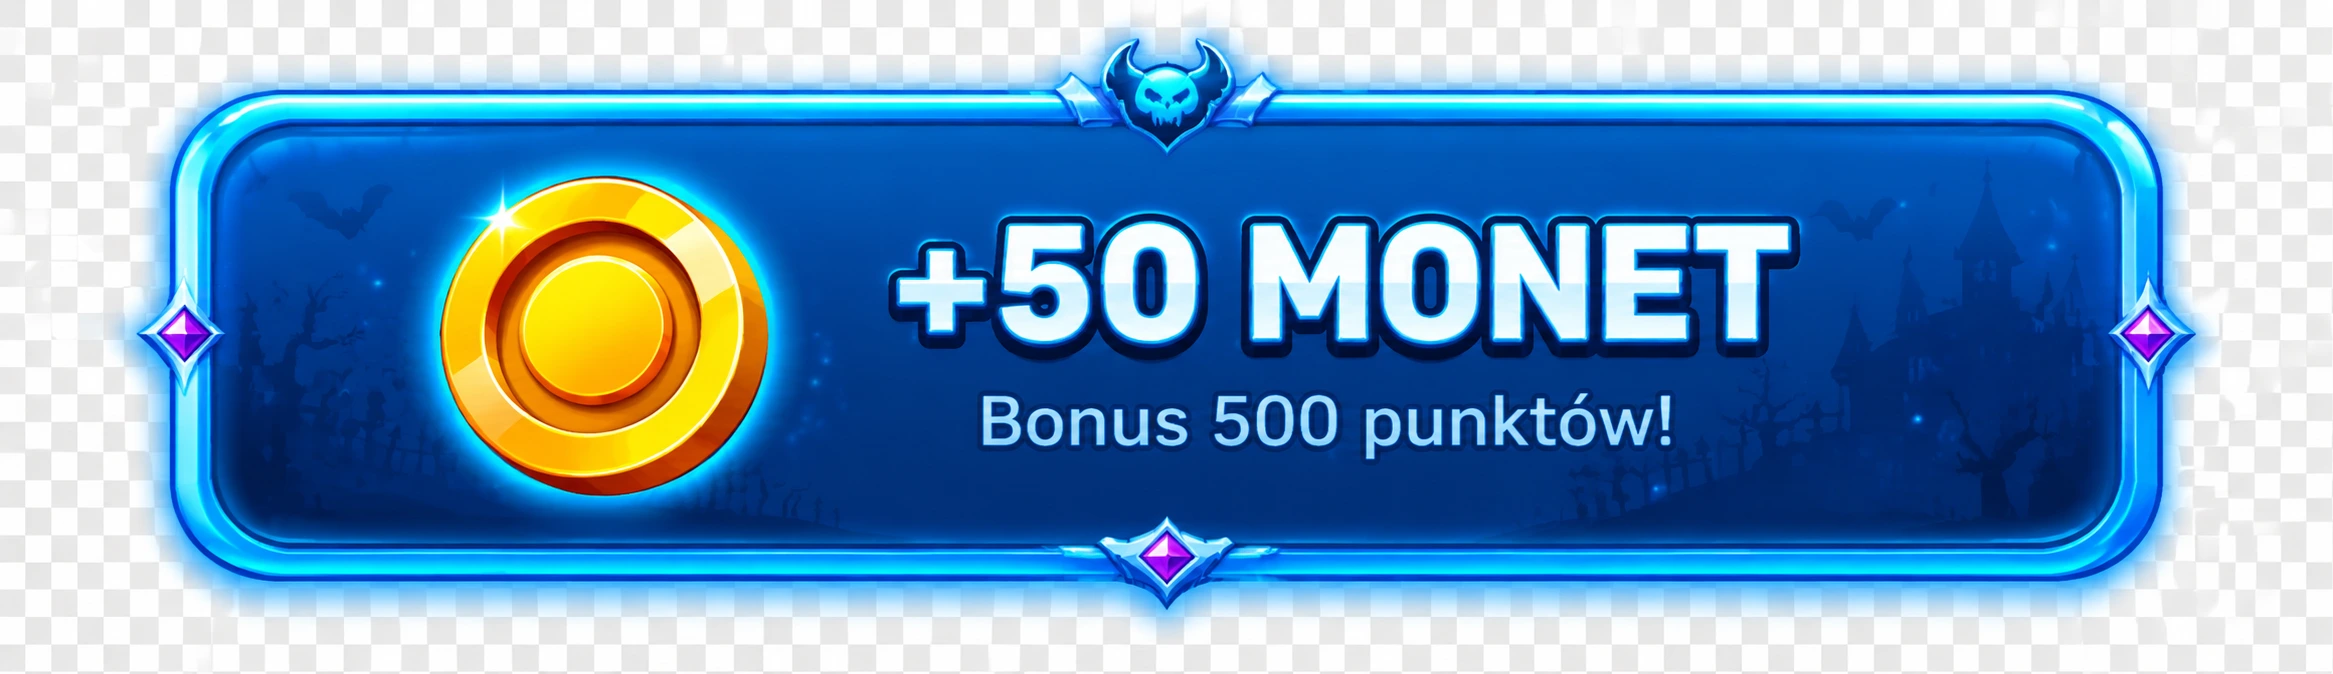
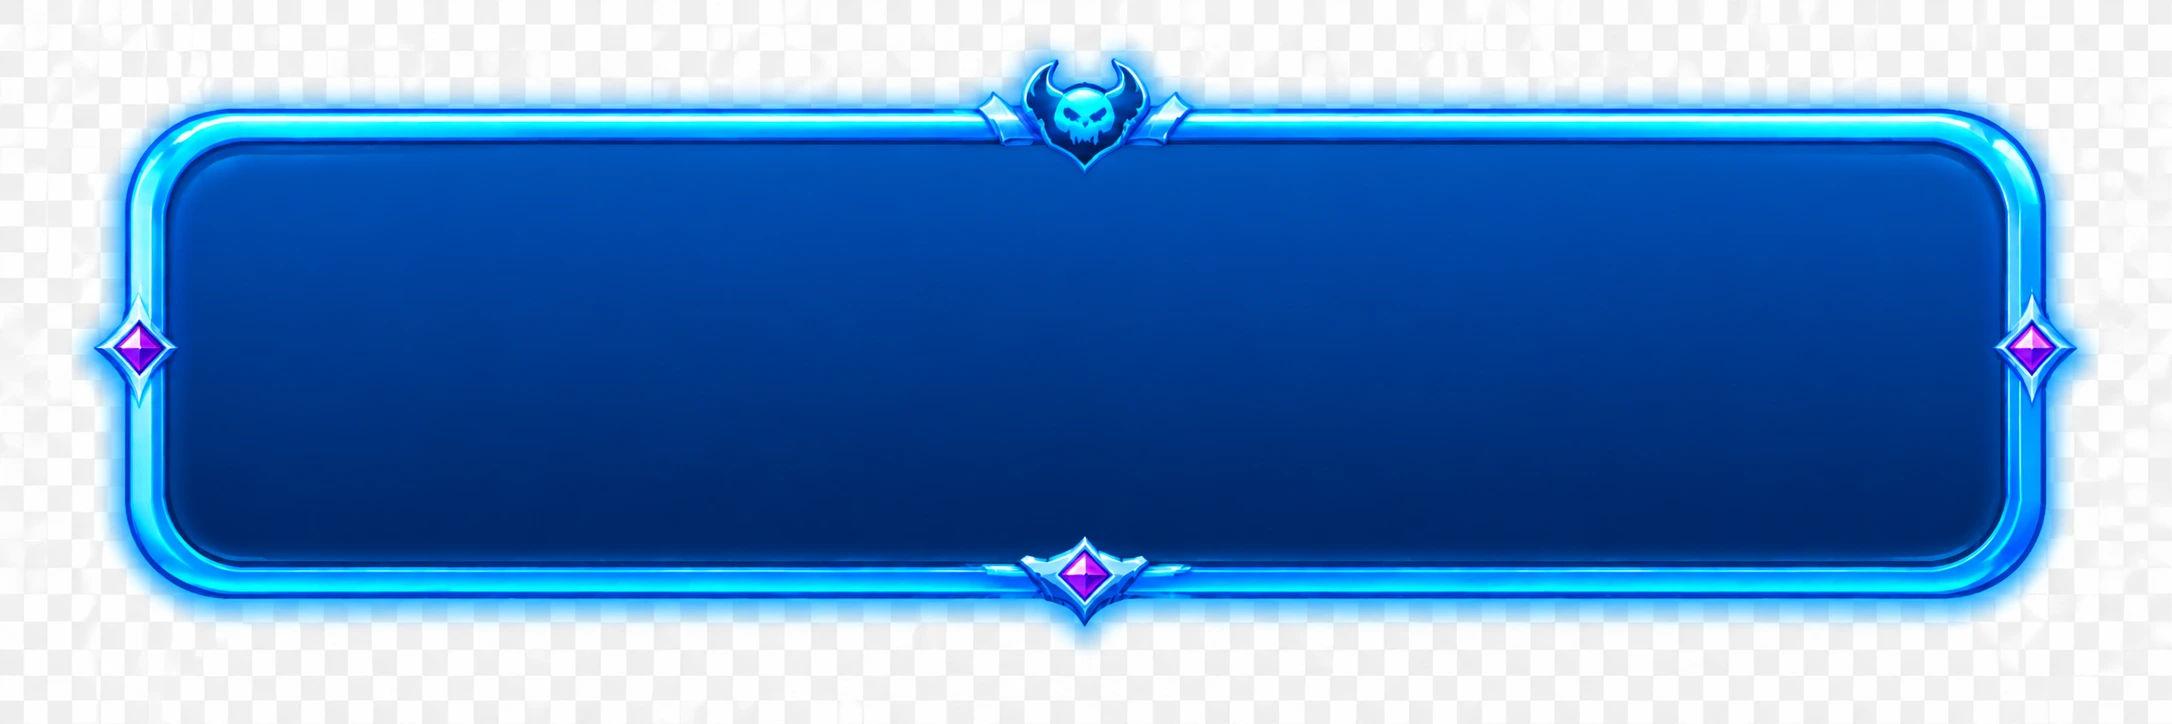
Replace reward_frame_v2 with empty ornate frame (no baked text).
Nowy asset 2172x724 (~3:1) z czystym wnetrzem - tylko cyan/blue ramka + skull + diamond ornaments. Usuniety dark-cover hack, dynamiczna ikona + label + description renderuja sie bezposrednio w ramce. Display 720x240 zachowuje source ratio.

diff --git a/src/scenes/ChestSelectScene.js b/src/scenes/ChestSelectScene.js
@@ -189,17 +189,12 @@ export class ChestSelectScene extends Phaser.Scene {
     const cy = (GAME_HEIGHT * 0.45) + 8;
     const c = this.add.container(cx, cy).setScale(0).setDepth(99999);
 
-    // Reward frame v2 — cyan/blue ornate frame z skull + diamond ornaments
-    // (source 2333×674, ratio ~3.46:1 → display 720×208 zachowuje proporcje).
+    // Reward frame v2 — czysta cyan/blue ornate ramka (puste wnętrze) z skull
+    // + diamond ornaments. Source 2172×724 (~3:1) → display 720×240.
     if (this.textures.exists('reward_frame_v2')) {
       const frame = this.add.image(0, 0, 'reward_frame_v2');
-      frame.setDisplaySize(720, 208);
+      frame.setDisplaySize(720, 240);
       c.add(frame);
-      // Zakrywamy baked tekst "+50 MONET / Bonus 500 punktów!" wewnątrz frame'a
-      // (każda nagroda renderuje SWOJE label/description, więc baked tekst
-      // duplikował się z dynamicznym). Cover trochę mniejszy niż frame interior.
-      const cover = this.add.rectangle(80, 0, 540, 150, 0x0a1428, 0.95);
-      c.add(cover);
     } else {
       // Fallback: dark fill + cienka biała ramka.
       const bg = this.add.rectangle(0, 0, 720, 180, 0x0a1428, 0.95)
